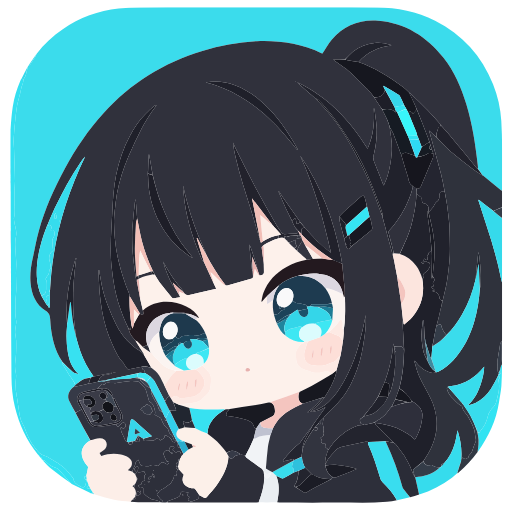
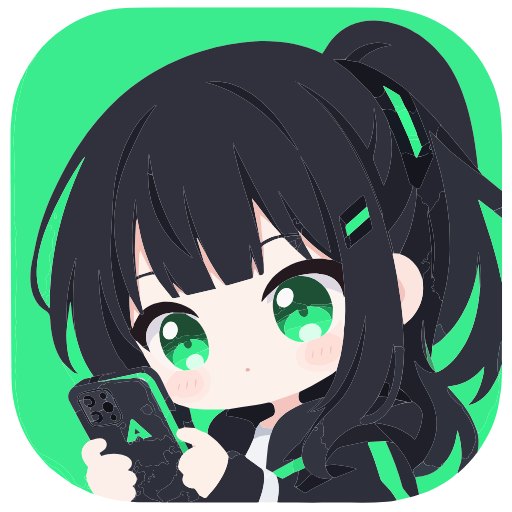
feat(branding): align color theme with fresh WhatsApp-adjacent emerald green
- Update AppDnaTokens: define AccentGreen (#10B981) and AccentGreenVibrant (#22C55E)
- Update in-app accents in HeroSaturatedCard and ProductDialog to WhatsApp green
- Shift master app icon vector SVG from cyan to WhatsApp-aligned fresh mint/emerald green (#3BEC8E)
- Re-render app_icon_512.png and feature_graphic_1024x500.png with new green theme
- Update launcher background color in colors.xml to #3BEC8E
- Re-generate all adaptive and legacy mipmap icon assets with new green palette
- Bump app version to v0.1.27 (versionCode = 27)

diff --git a/app/src/main/java/com/mbakadmin/dagango/ui/components/HeroSaturatedCard.kt b/app/src/main/java/com/mbakadmin/dagango/ui/components/HeroSaturatedCard.kt
@@ -62,7 +62,7 @@ fun HeroSaturatedCard(
                             .size(7.dp)
                             .background(
                                 color = if (!isListenerEnabled) AppDnaTokens.RoseAlert
-                                else if (isAutoReplyActive) AppDnaTokens.AccentCyan
+                                else if (isAutoReplyActive) AppDnaTokens.AccentGreenVibrant
                                 else AppDnaTokens.ForegroundMuted,
                                 shape = CircleShape
                             )
@@ -75,7 +75,7 @@ fun HeroSaturatedCard(
                             fontWeight = FontWeight.Bold,
                             letterSpacing = 1.sp
                         ),
-                        color = if (!isListenerEnabled) AppDnaTokens.RoseAlert else AppDnaTokens.AccentCyan,
+                        color = if (!isListenerEnabled) AppDnaTokens.RoseAlert else AppDnaTokens.AccentGreenVibrant,
                         maxLines = 1,
                         overflow = TextOverflow.Ellipsis
                     )

diff --git a/app/src/main/java/com/mbakadmin/dagango/ui/theme/AppDnaTokens.kt b/app/src/main/java/com/mbakadmin/dagango/ui/theme/AppDnaTokens.kt
@@ -26,7 +26,9 @@ object AppDnaTokens {
     val BorderSubtle = Color(0x14000000) // ~8% black hairline
     val BorderCard = Color(0xFFE5E7EB)
 
-    val AccentCyan = Color(0xFF06B6D4)
+    val AccentGreen = Color(0xFF10B981) // WhatsApp-aligned modern emerald
+    val AccentGreenVibrant = Color(0xFF22C55E) // WhatsApp-adjacent vibrant spring green
+    val AccentCyan = AccentGreen // Alias for backward compatibility
     val SuccessGreen = Color(0xFF10B981)
     val WarningAmber = Color(0xFFF59E0B)
     val RoseAlert = Color(0xFFF43F5E)

diff --git a/app/src/main/java/com/mbakadmin/dagango/ui/dialogs/ProductDialog.kt b/app/src/main/java/com/mbakadmin/dagango/ui/dialogs/ProductDialog.kt
@@ -84,7 +84,7 @@ fun ProductDialog(
                                 fontWeight = FontWeight.Bold,
                                 letterSpacing = 1.2.sp
                             ),
-                            color = AppDnaTokens.AccentCyan
+                            color = AppDnaTokens.AccentGreen
                         )
                         Spacer(modifier = Modifier.height(2.dp))
                         Text(
